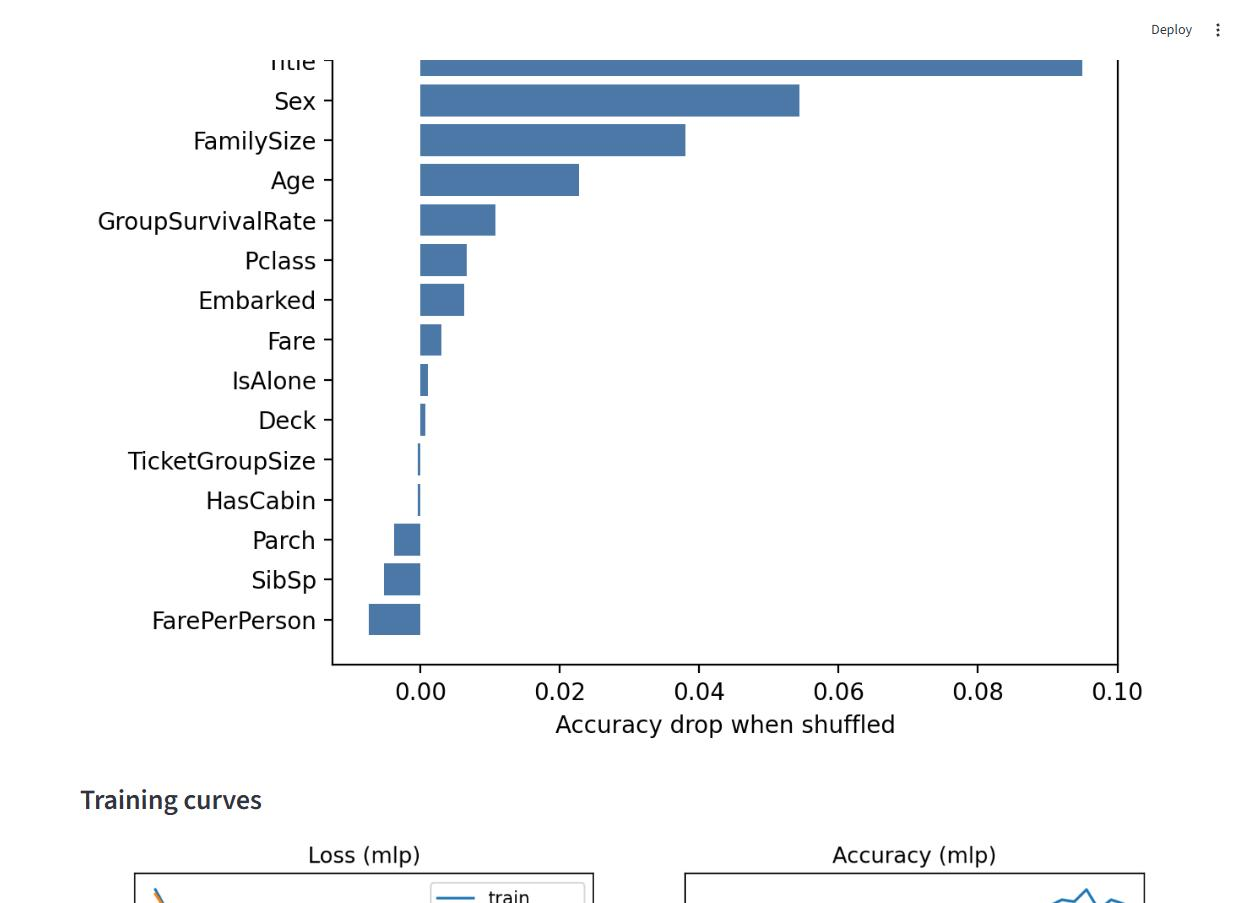
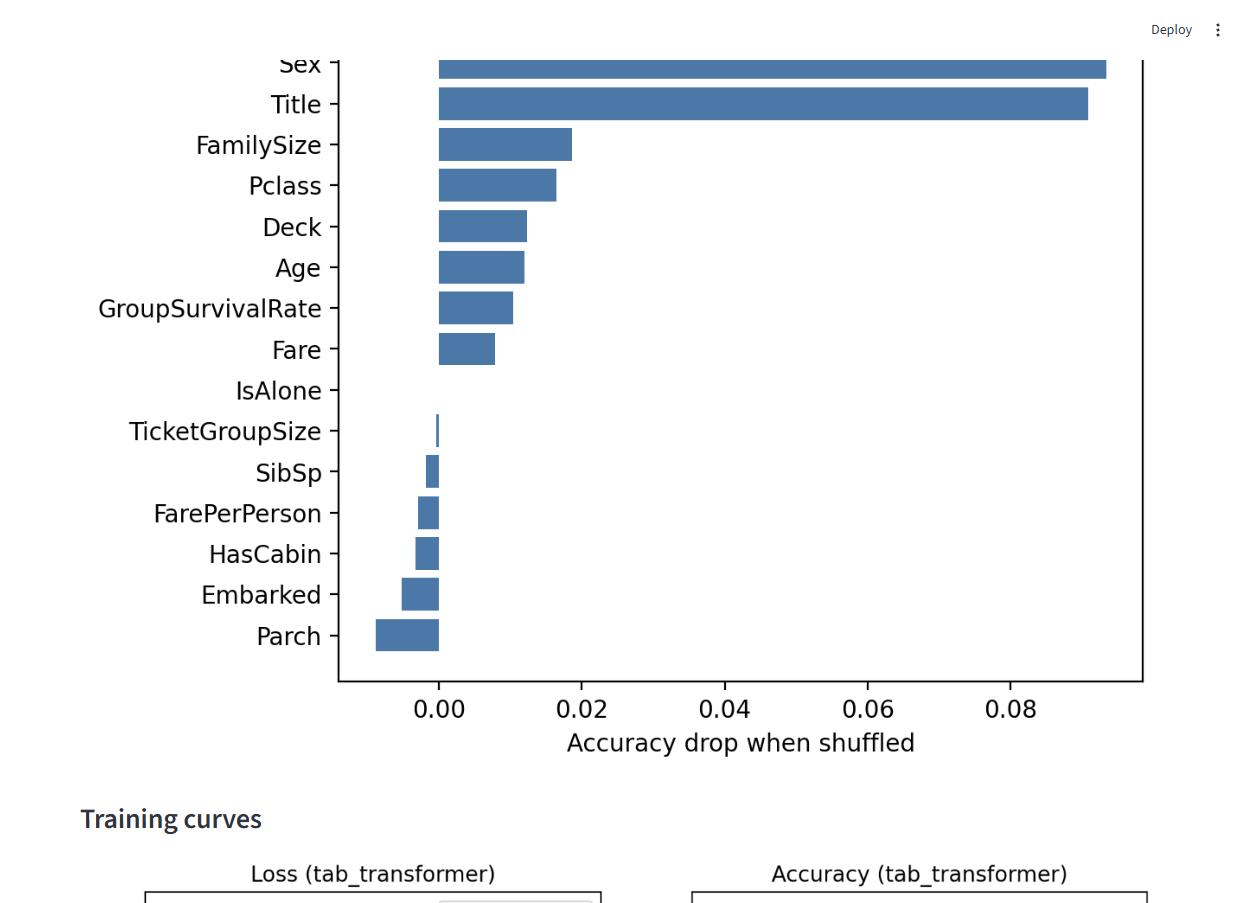
Make tab_transformer the app's default model
It has the highest CV accuracy of all 12 models (85.7%), PyTorch or
baseline, so it's a stronger default experience than train.py's own pick
(mlp, selected by lowest CV loss among just the 3 PyTorch architectures -
still labeled separately and one click away). Both picks stay fully
visible and selectable; only which one auto-loads changed.

Updated the model-picker labels/help text to distinguish the three
markers clearly (default selection vs train.py's CV-loss winner vs lowest
CV loss overall), and refreshed the two screenshots that showed the old
default.

diff --git a/ds_app.py b/ds_app.py
@@ -8,10 +8,12 @@ Three things live here:
      baselines (Logistic Regression, KNN, Naive Bayes, SVM, Random Forest,
      HistGradientBoosting, XGBoost, LightGBM, CatBoost). Every model found
      in artifacts/ shows up here so the user can choose which one drives the
-     two tabs below. Defaults to whichever has the lowest 5-fold CV
-     validation loss overall. **The assignment's required deliverable is
-     train.py's PyTorch model** — the classical baselines are bonus context,
-     clearly labeled as such below.
+     two tabs below. Defaults to tab_transformer (highest CV accuracy of
+     every model here). train.py's own pick — mlp, by lowest CV loss among
+     just the 3 PyTorch architectures — is labeled separately and still one
+     selection away. **The assignment's required deliverable is train.py's
+     PyTorch model** (mlp / deep_mlp / tab_transformer, all three shown) —
+     the classical baselines are bonus context, clearly labeled as such below.
   2. "Validation results"  - shows how the selected model performed on the
      held-out validation split, the full model comparison table, and
      permutation feature importance — all read straight from artifacts/.
@@ -156,21 +158,27 @@ if not comparison:
     st.stop()
 
 available_names = sorted(comparison, key=lambda n: comparison[n]["cv_mean_val_loss"])
-# Default selection stays train.py's own PyTorch winner (the assignment's required
-# deliverable) even if a classical baseline scores lower CV loss overall — that
-# result is still fully visible in the table/dropdown, just not what auto-loads.
+# train.py's own winner (by lowest CV loss among the 3 required PyTorch
+# architectures) is still labeled and always visible, but the app's default
+# selection is pinned to tab_transformer — it has the highest CV accuracy of
+# every model here, PyTorch or baseline (see README "Example usage" for the
+# full loss-vs-accuracy discussion behind train.py's own, different pick).
 pytorch_winner = pytorch_comparison.get("winner")
 overall_best = min(comparison, key=lambda n: comparison[n]["cv_mean_val_loss"])
-default_selection = pytorch_winner if pytorch_winner in comparison else overall_best
+default_selection = "tab_transformer" if "tab_transformer" in comparison else (
+    pytorch_winner if pytorch_winner in comparison else overall_best
+)
 
 
 def _label(name: str) -> str:
     cv_acc = comparison[name]["cv_mean_val_acc"]
     kind = "PyTorch" if is_pytorch(name) else "classical baseline"
     tags = []
-    if name == pytorch_winner:
-        tags.append("⭐ required-model winner")
-    if name == overall_best and name != pytorch_winner:
+    if name == default_selection:
+        tags.append("📌 loads by default — highest CV accuracy")
+    if name == pytorch_winner and name != default_selection:
+        tags.append("⭐ train.py's own CV-loss winner")
+    if name == overall_best and name not in (default_selection, pytorch_winner):
         tags.append("🏆 lowest CV loss overall")
     suffix = f" ({', '.join(tags)})" if tags else ""
     return f"{name}  —  {kind}  —  {cv_acc:.1%} CV accuracy{suffix}"
@@ -182,9 +190,11 @@ arch = st.selectbox(
     index=available_names.index(default_selection),
     format_func=_label,
     help="train.py's mlp / deep_mlp / tab_transformer are the assignment's required "
-    "PyTorch deliverable (⭐ marks train.py's own winner, pre-selected by default); "
-    "any other names come from the optional, bonus train_baselines.py script. 🏆 marks "
-    "whichever model has the lowest CV loss across *all* of them, PyTorch or not.",
+    "PyTorch deliverable. 📌 tab_transformer is pre-selected by default (highest CV "
+    "accuracy overall); ⭐ marks train.py's own pick instead, chosen by lowest CV loss "
+    "among just the 3 PyTorch architectures; 🏆 marks the lowest CV loss across *all* "
+    "models, PyTorch or not. Any name that isn't mlp/deep_mlp/tab_transformer comes "
+    "from the optional, bonus train_baselines.py script.",
 )
 if not is_pytorch(arch):
     st.info(

diff --git a/README.md b/README.md
@@ -141,8 +141,8 @@ models compare to strong (and not-so-strong) classical tabular baselines.
 is `train.py`'s PyTorch model, which is always one of `mlp` / `deep_mlp` /
 `tab_transformer`. Run `python train_baselines.py` (after `train.py`) and
 `ds_app.py`'s model picker will show every baseline alongside the PyTorch
-architectures, clearly labeled by kind, with the PyTorch winner still
-pre-selected by default regardless of whether a baseline scores lower.
+architectures, clearly labeled by kind, with a PyTorch model (`tab_transformer`)
+still pre-selected by default regardless of whether a baseline scores lower.
 
 ## Setup
 
@@ -202,10 +202,11 @@ streamlit run ds_app.py
 ```
 - **Model picker** — a dropdown above the tabs lists every model found in
   `artifacts/` (the 3 required PyTorch architectures, plus any classical
-  baselines from step 2), labeled with kind and CV accuracy. ⭐ marks
-  `train.py`'s own PyTorch winner (lowest CV loss among `mlp` / `deep_mlp` /
-  `tab_transformer`) and is pre-selected by default; 🏆 marks whichever
-  model has the lowest CV loss overall, if that's a different (baseline) model.
+  baselines from step 2), labeled with kind and CV accuracy. 📌
+  `tab_transformer` is pre-selected by default (highest CV accuracy overall);
+  ⭐ marks `train.py`'s own pick instead (lowest CV loss among just the 3
+  PyTorch architectures — currently `mlp`); 🏆 marks whichever model has the
+  lowest CV loss overall, if that's a different (baseline) model.
 - **Validation results tab** — metrics/plots on the held-out split for the
   selected model, the full model comparison table, permutation feature
   importance, and training curves (PyTorch models only — classical
@@ -273,11 +274,12 @@ jupyter notebook notebooks/model_benchmark.ipynb  # bonus SOTA baseline comparis
   pair's *accuracy* is respectable (81.5% / 78.8%) despite the terrible
   loss — both output poorly-calibrated probabilities (confidently wrong
   more often than they should be), which log loss punishes hard but plain
-  accuracy doesn't notice. In `ds_app.py`, `mlp` still loads by default
-  (it's `train.py`'s own PyTorch winner, the required deliverable) even
-  though CatBoost scores lower CV loss overall — that result is fully
-  visible in the app's comparison table and selectable, just not what
-  auto-loads.
+  accuracy doesn't notice. In `ds_app.py`, `tab_transformer` loads by
+  default (highest CV accuracy overall, and still one of the 3 required
+  PyTorch architectures) even though CatBoost scores lower CV loss —
+  `train.py`'s own pick (`mlp`, by lowest CV loss among just the PyTorch
+  architectures) and CatBoost's result are both fully visible in the app's
+  comparison table and selectable, just not what auto-loads.
 - App: `streamlit run ds_app.py` → opens at `http://localhost:8501` with a
   model picker (12 models once both training scripts have been run) plus
   the two tabs described above. Verified end-to-end against
@@ -286,7 +288,7 @@ jupyter notebook notebooks/model_benchmark.ipynb  # bonus SOTA baseline comparis
 
 ### Screenshots
 
-**Validation results — default PyTorch winner (`mlp`)**
+**Validation results — default model (`tab_transformer`)**
 ![Validation results: metrics, confusion matrix, ROC curve](docs/screenshots/01_validation_results.jpg)
 
 **Model comparison table — all 12 models ranked by CV loss**
